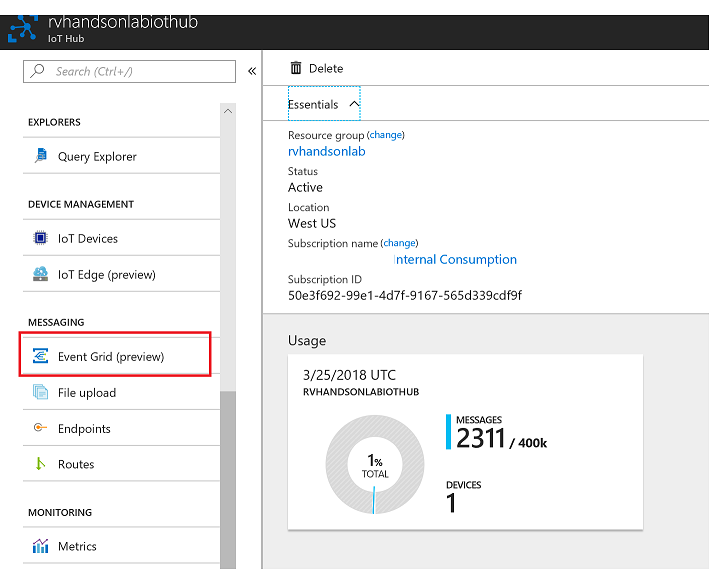
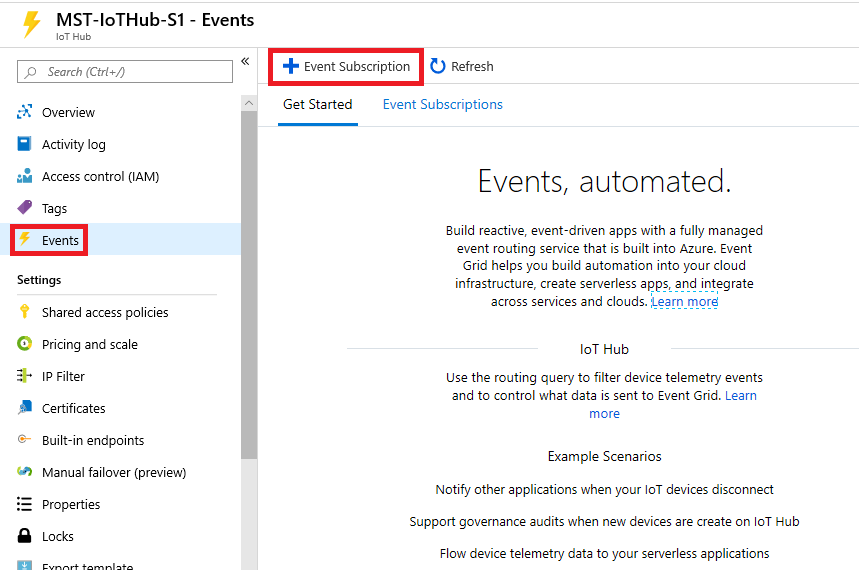
Embed video properly and use latest portal screens

Changed region(s): [[0.0, 0.0, 1.0, 1.0], [0.557, 0.2982, 0.8664, 0.3579], [0.6807, 0.5965, 0.7426, 0.6263]]

diff --git a/EventGrid/README.md b/EventGrid/README.md
@@ -4,7 +4,7 @@
 
 Azure IoT Hub integrates with Azure Event Grid so that you can send event notifications to other services and trigger downstream processes. Configure your business applications to listen for IoT Hub events so that you can react to critical events in a reliable, scalable, and secure manner. For example, build an application to perform multiple actions like updating a database, creating a ticket, and delivering an email notification every time a new IoT device is registered to your IoT hub.
 
-<iframe src="https://channel9.msdn.com/Shows/Internet-of-Things-Show/Azure-IoT-Hub-Integration-with-Azure-Event-Grid/player" width="480" height="270" allowFullScreen frameBorder="0"></iframe>
+[![Watch the video](https://img.youtube.com/vi/IDYAX4K7rfQ/hqdefault.jpg)](https://www.youtube.com/watch?v=IDYAX4K7rfQ)
 
 In this lab you will learn how to
 
@@ -22,9 +22,9 @@ Click on **Create a resource**
 
 ![Create Resource](images/create_resource.png)
 
-Click on **Enterprise Integration**
+Click on **Integration**
 
-![Enterprise Integration](images/enterprise_integration.png)
+![Enterprise Integration](images/create_resource_integration.png)
 
 Click on **Logic Apps**
 
@@ -42,7 +42,7 @@ Select HTTP Request
 
 ![Select HTTP Request](images/04_Http_Request.png)
 
-Provide a Sample Payload
+Provide a Sample Payload. More information about the payload schema can be [found here](https://docs.microsoft.com/en-us/azure/event-grid/event-schema-iot-hub).
 
 ```code
 [{
@@ -125,17 +125,19 @@ Create Email template
 
 ## Integrate With IoTHub
 
-Integrate Logic App with IoTHub via Event Grid
+Integrate Logic App with IoTHub via **Events** and **+ Event Subscription**
 
 ![Imported Script](images/13_IoTHub_EventHub.png "Integrated with IoTHub")
 
-Click on Event Subscription
+Give the new Event Subscription a **Name** and select **Endpoint Type** Web Hook. After that, click on **Select an endpoint**.
 
-![Integrated with IoTHub](images/14_empty_event_subscription.png "")
+![Create Event Subscription](images/14_create_event_subscription.png)
 
-Copy the URL from previous steps into Subscriber Endpoint and click create
+Copy the URL from previous steps into Subscriber Endpoint and click **Confirm Selection**
 
 ![Integrated with IoTHub](images/15_device_events.png)
+
+Finally click the **Create** button.
 
 ## Add Device and Test Notification
 
